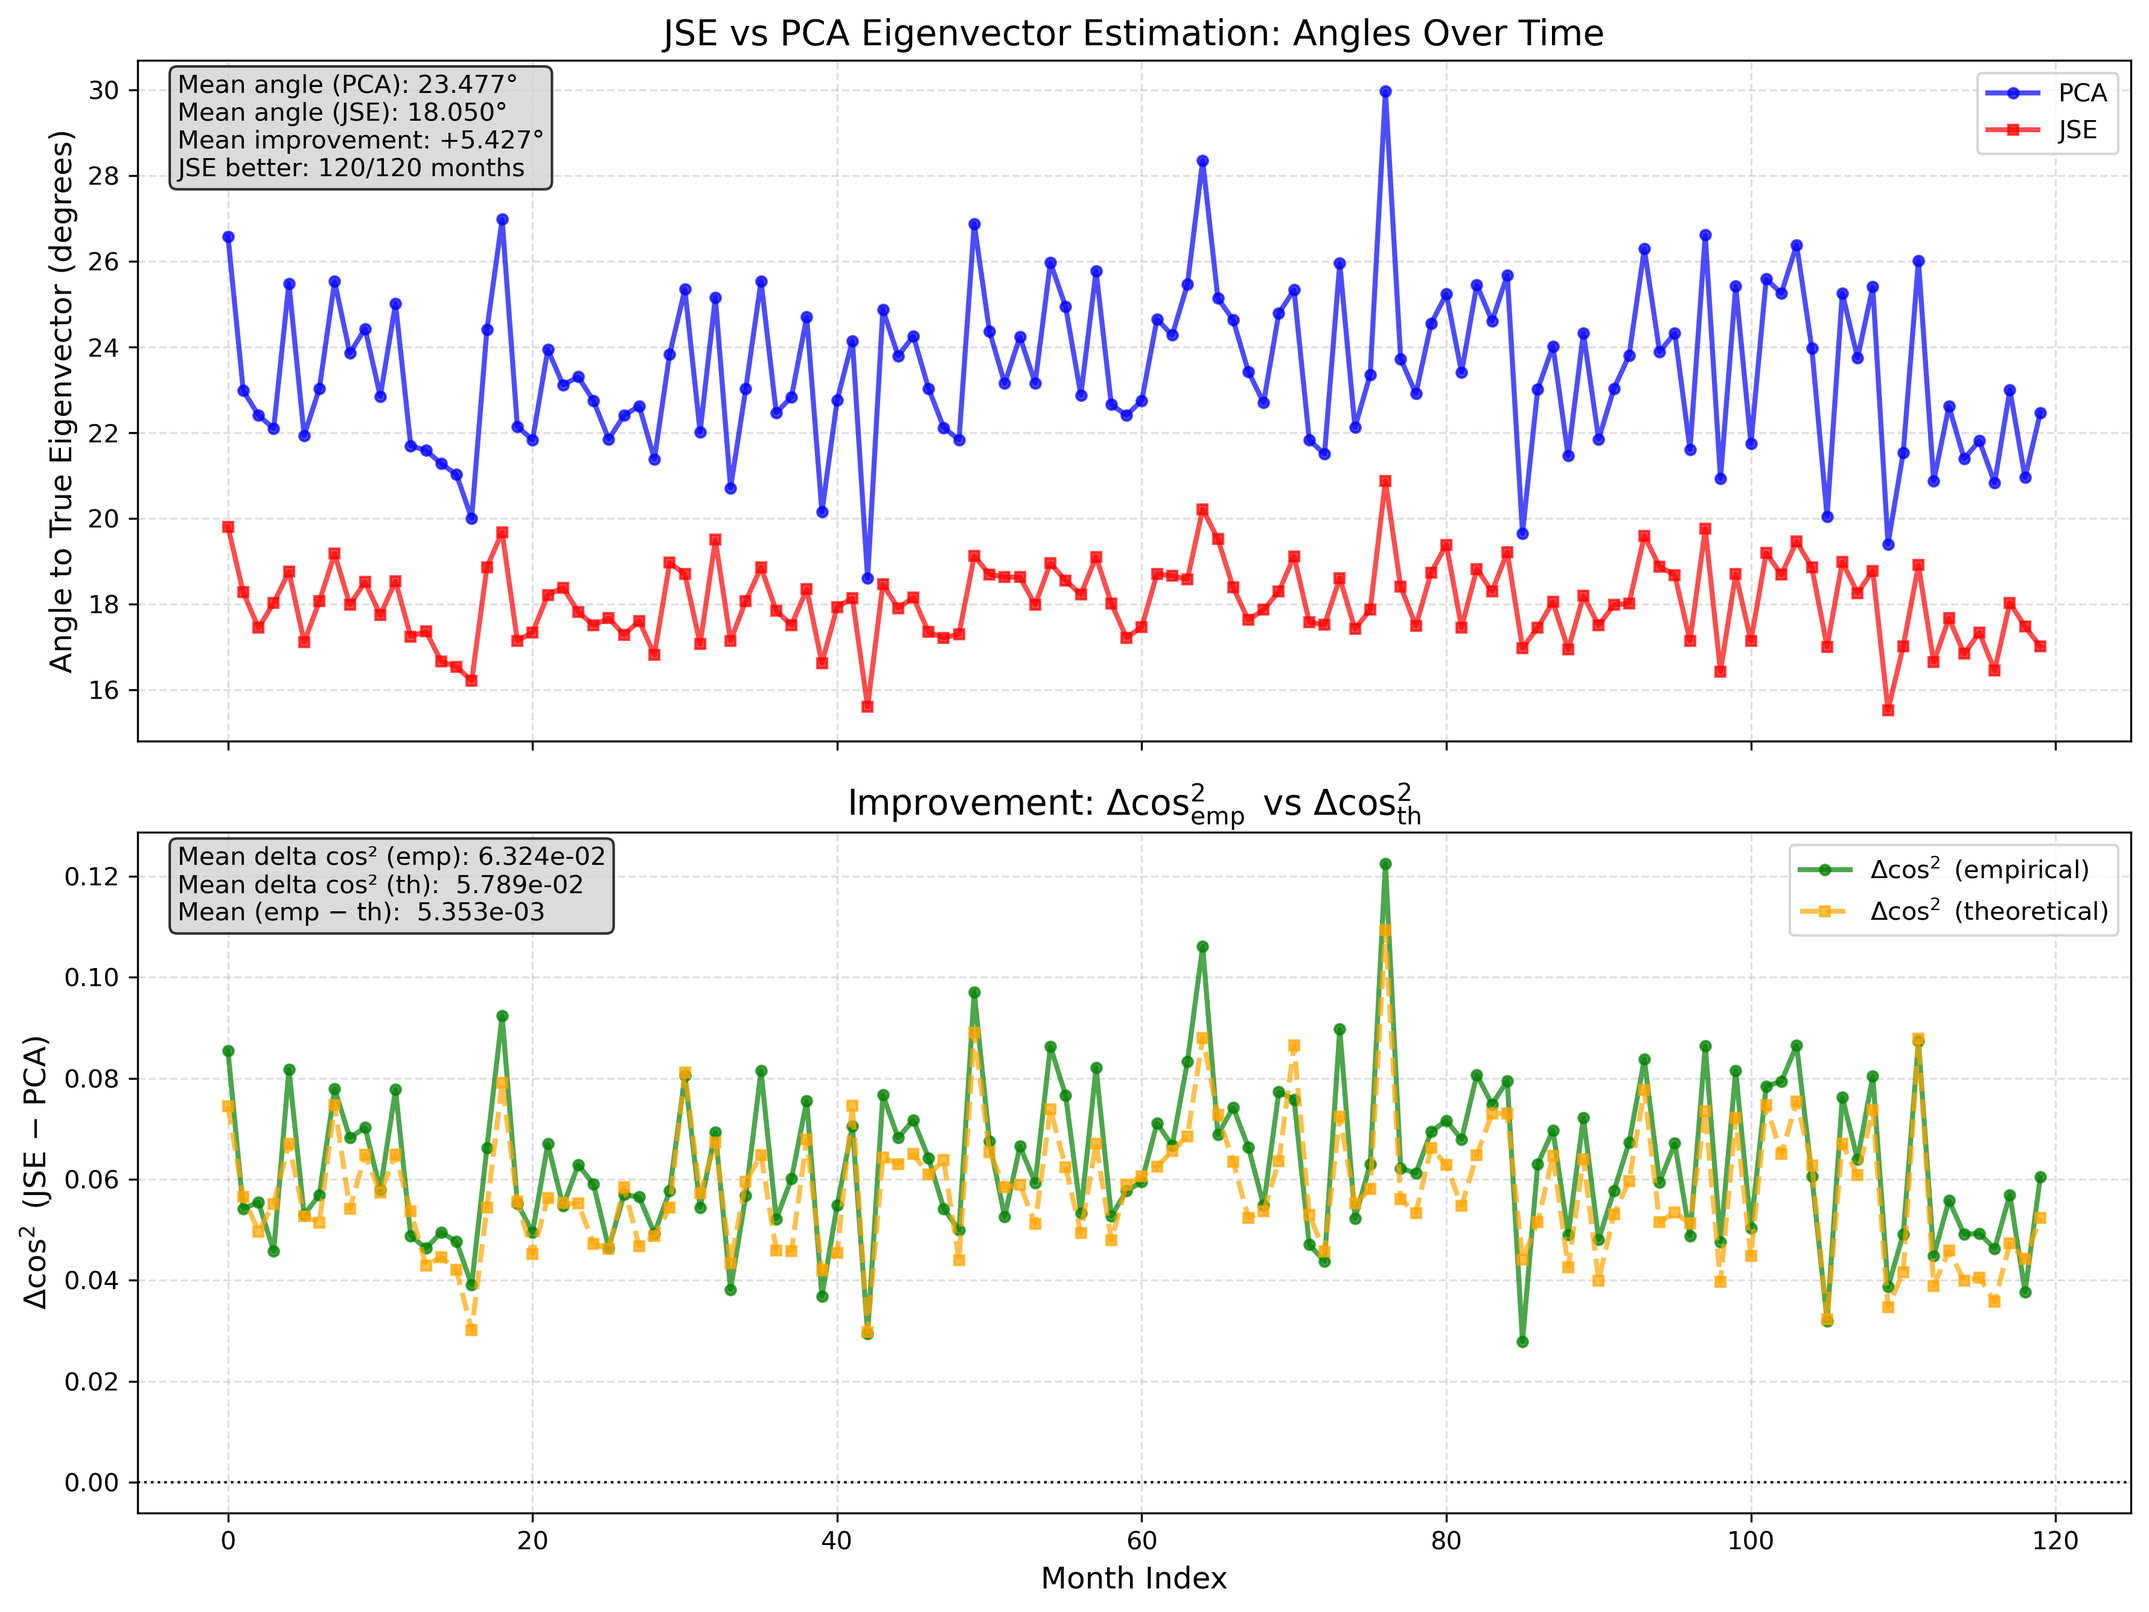
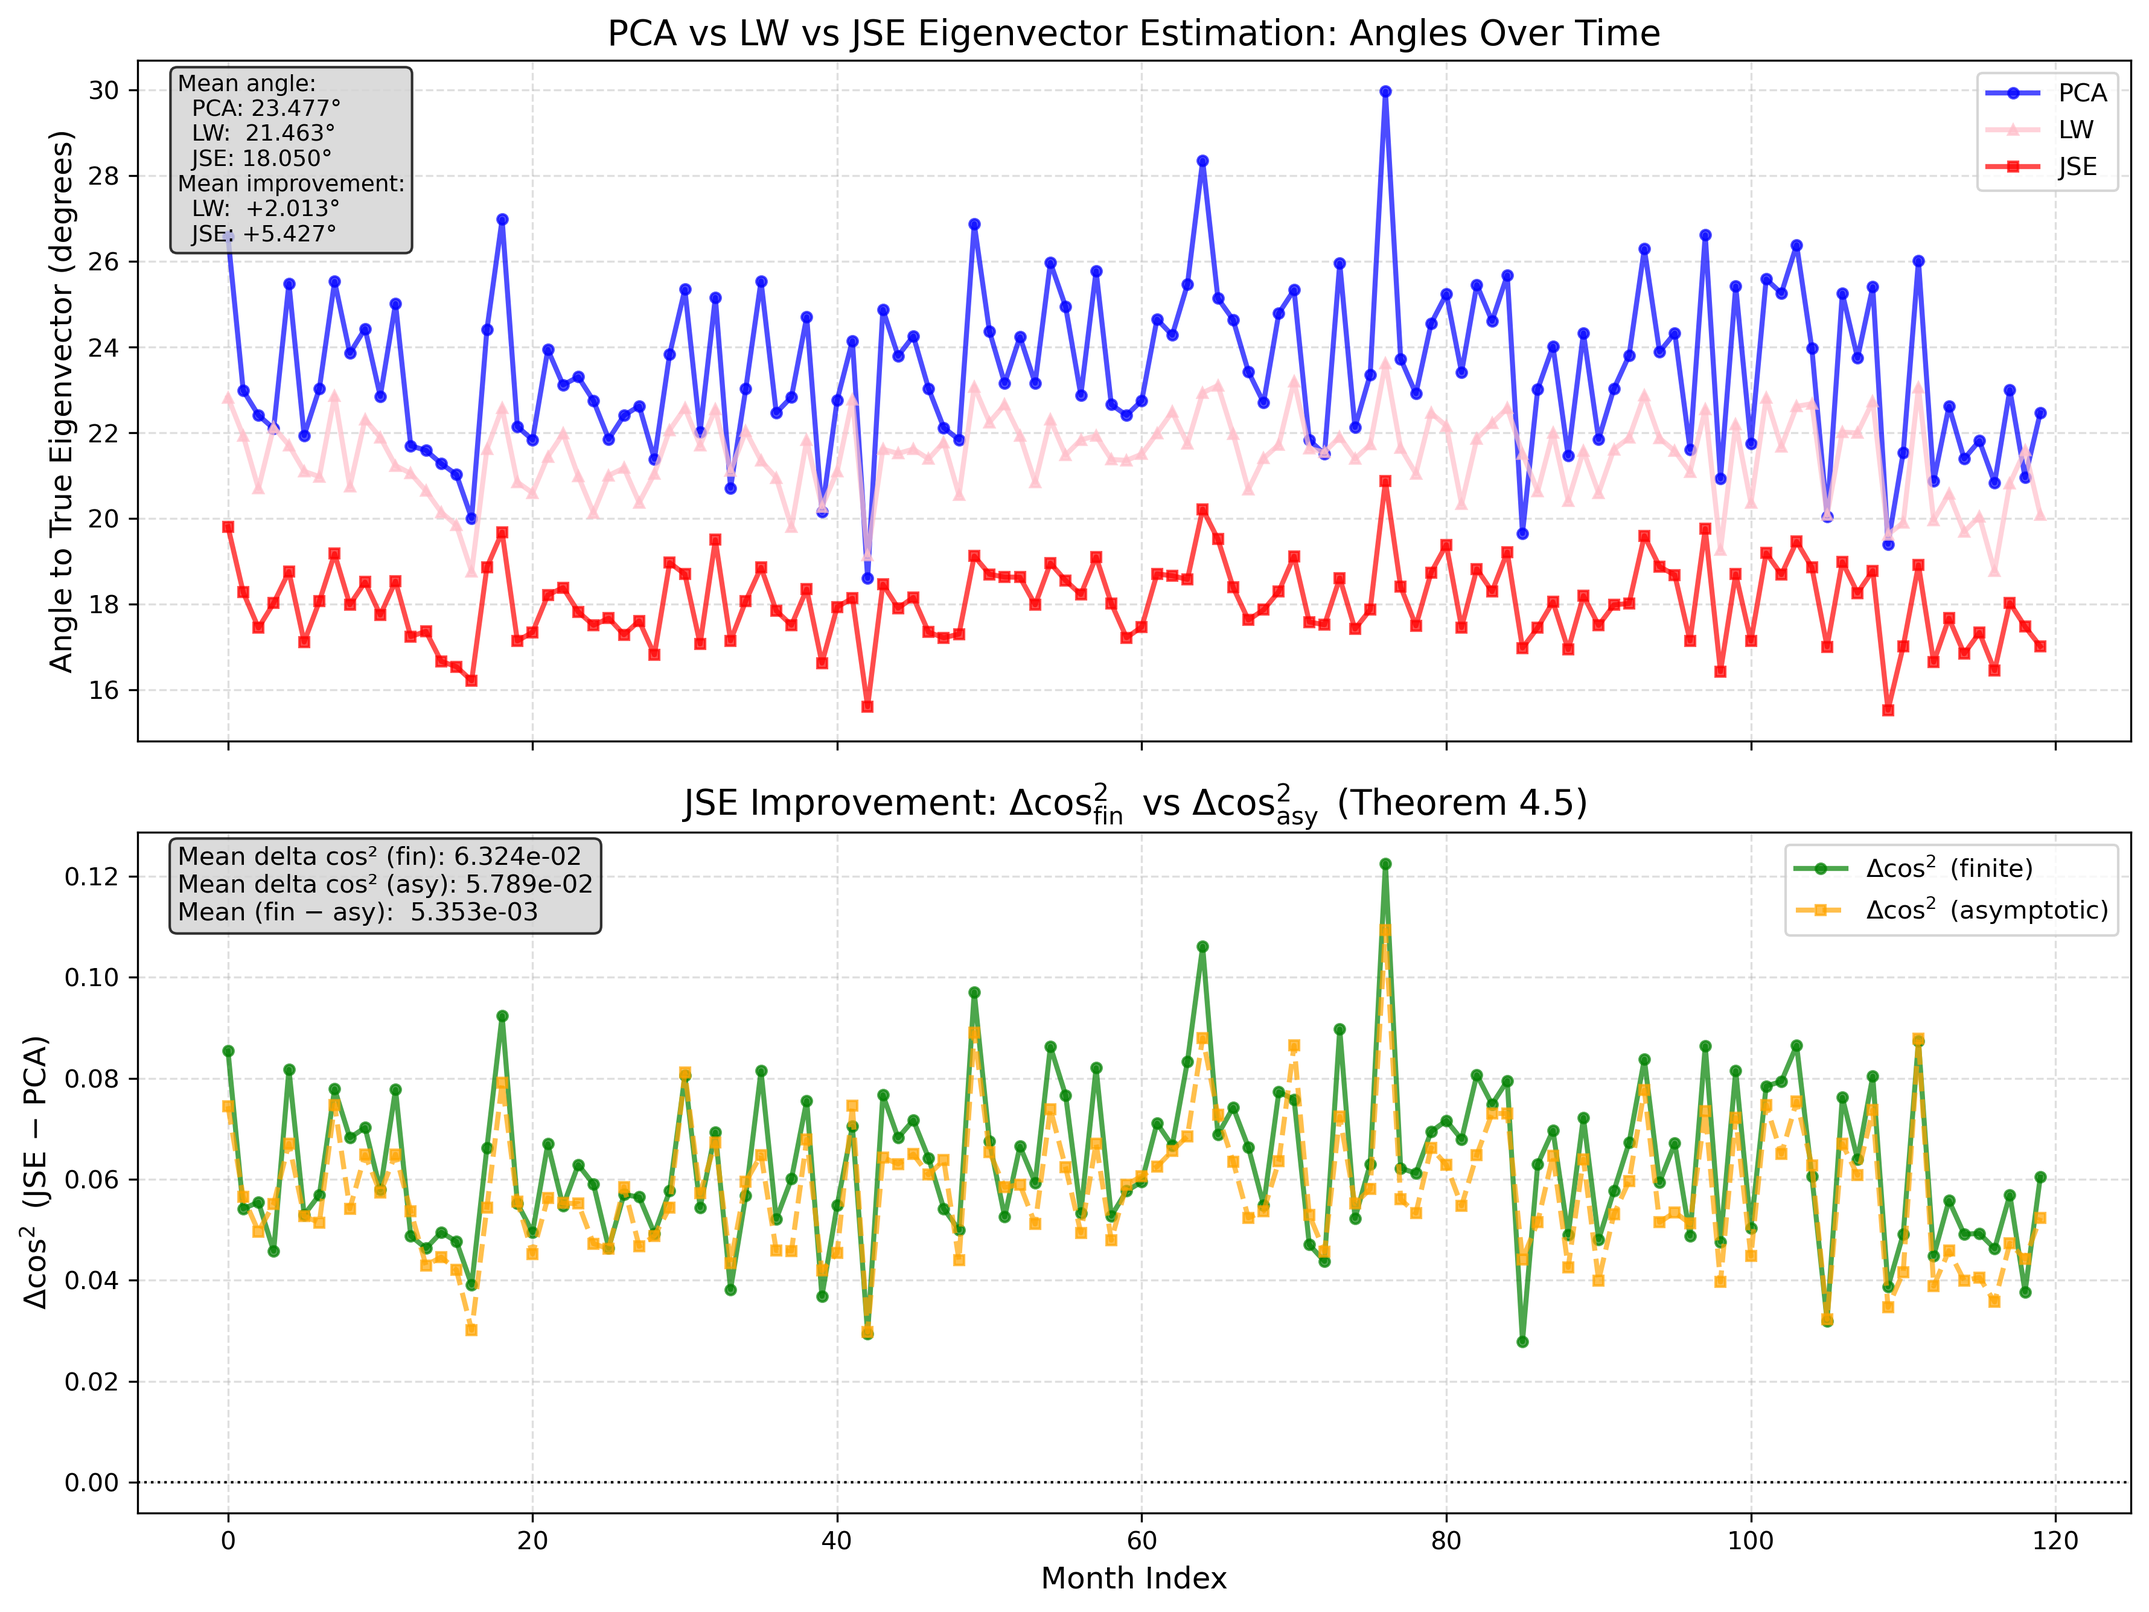
Update shrunk and true vector angle comparison

diff --git a/analyze_jse_improvement.py b/analyze_jse_improvement.py
@@ -3,10 +3,11 @@ The code is mostly based on paper "Portfolio optimisation via strategy-specific 
 Using formula 3.6/4.12 to test if JSE is moving eigenvector closer to the ground truth
 """
 
+from pathlib import Path
+
+import matplotlib.pyplot as plt
 import numpy as np
 import pandas as pd
-from pathlib import Path
-import matplotlib.pyplot as plt
 
 from construct_cov_sim import (
     demean_over_time,
@@ -14,6 +15,8 @@ from construct_cov_sim import (
     top_k_eigenpairs,
     js_eigvec_factor_cov
 )
+# Import LW shrinkage
+from honeyShrinkage import covCor
 
 
 def compute_angle_degrees(v1: np.ndarray, v2: np.ndarray) -> float:
@@ -34,7 +37,7 @@ def compute_angle_degrees(v1: np.ndarray, v2: np.ndarray) -> float:
 
 def compute_cos2(v1: np.ndarray, v2: np.ndarray) -> float:
     """
-    Compute cosine of two vectors, to compare with the theoretical delta later
+    Compute cosine of two vectors, to compare with the asymptotic delta later
     """
     v1_norm = v1 / (np.linalg.norm(v1) + 1e-18)
     v2_norm = v2 / (np.linalg.norm(v2) + 1e-18)
@@ -82,9 +85,9 @@ def compute_cos_sin_theta2(true_eigvec: np.ndarray,
     return cos2_theta, sin2_theta
 
 
-def theoretical_improvement(phi2: float,
-                             cos2_theta: float,
-                             sin2_theta: float) -> float:
+def asymptotic_improvement(phi2: float,
+                            cos2_theta: float,
+                            sin2_theta: float) -> float:
     """
     RHS of eq. (3.6) / (4.12):
 
@@ -158,6 +161,11 @@ def analyze_all_months(data_dir: Path):
         U_pca, lam_pca = top_k_eigenpairs(S, k)
         h_pca = U_pca[:, 0]
         
+        # LW: Leading eigenvector from LW-shrunk covariance
+        Sigma_lw, _ = covCor(X.T)  # covCor expects (n, p) format
+        U_lw, lam_lw = top_k_eigenpairs(Sigma_lw, k)
+        h_lw = U_lw[:, 0]
+        
         # JSE: Leading eigenvector from JSE-shrunk covariance
         Sigma_jse = js_eigvec_factor_cov(S, k, n)
         U_jse, lam_jse = top_k_eigenpairs(Sigma_jse, k)
@@ -169,17 +177,20 @@ def analyze_all_months(data_dir: Path):
         
         # Compute angles to truth
         angle_pca = compute_angle_degrees(h_pca, true_eigvec)
+        angle_lw = compute_angle_degrees(h_lw, true_eigvec)
         angle_jse = compute_angle_degrees(h_jse, true_eigvec)
         
-        # Improvement (negative means JSE is better - smaller angle)
-        improvement = angle_pca - angle_jse
-        pct_improvement = (improvement / angle_pca) * 100
+        # Improvements relative to PCA
+        improvement_jse = angle_pca - angle_jse
+        improvement_lw = angle_pca - angle_lw
+        pct_improvement_jse = (improvement_jse / angle_pca) * 100
+        pct_improvement_lw = (improvement_lw / angle_pca) * 100
 
-        # Squared cosines and theoretical improvement (eq. 4.12 / 3.6) ---
-        # Empirical cos^2 values
+        # Squared cosines and asymptotic improvement (eq. 4.12 / 3.6) ---
+        # Finite cos^2 values
         cos2_pca = compute_cos2(h_pca, true_eigvec)
         cos2_jse = compute_cos2(h_jse, true_eigvec)
-        diff_empirical = cos2_jse - cos2_pca
+        diff_finite = cos2_jse - cos2_pca
 
         # φ^2 from sample eigenvalues (uses n returned by sample_cov)
         phi2 = compute_phi2(S, n)
@@ -189,34 +200,38 @@ def analyze_all_months(data_dir: Path):
         constraint_vec = np.ones((p, 1))
         cos2_theta, sin2_theta = compute_cos_sin_theta2(true_eigvec, constraint_vec)
 
-        # Theoretical asymptotic difference from the paper
-        diff_theoretical = theoretical_improvement(phi2, cos2_theta, sin2_theta)
+        # Asymptotic difference from the paper
+        diff_asymptotic = asymptotic_improvement(phi2, cos2_theta, sin2_theta)
         
         # Store results
         results.append({
             'month': month,
             'angle_pca': angle_pca,
+            'angle_lw': angle_lw,
             'angle_jse': angle_jse,
-            'improvement_deg': improvement,
-            'improvement_pct': pct_improvement,
-            'jse_better': improvement > 0,
+            'improvement_jse_deg': improvement_jse,
+            'improvement_lw_deg': improvement_lw,
+            'improvement_jse_pct': pct_improvement_jse,
+            'improvement_lw_pct': pct_improvement_lw,
+            'jse_better': improvement_jse > 0,
+            'lw_better': improvement_lw > 0,
             'cos2_pca': cos2_pca,
             'cos2_jse': cos2_jse,
-            'diff_empirical': diff_empirical,
-            'diff_theoretical': diff_theoretical,
-            'diff_error': diff_empirical - diff_theoretical,
+            'diff_finite': diff_finite,
+            'diff_asymptotic': diff_asymptotic,
+            'diff_error': diff_finite - diff_asymptotic,
         })
         
         # Print result
-        status = "[+]" if improvement > 0 else "[-]"
+        status_jse = "[+]" if improvement_jse > 0 else "[-]"
+        status_lw = "[+]" if improvement_lw > 0 else "[-]"
         print(
-            f"{status} {month}: "
-            f"angle_PCA={angle_pca:6.3f}°, "
-            f"angle_JSE={angle_jse:6.3f}°, "
-            f"delta deg={improvement:6.3f}°, "
-            f"delta cos²_emp={diff_empirical:8.5f}, "
-            f"delta cos²_th={diff_theoretical:8.5f}, "
-            f"err={diff_empirical - diff_theoretical:+8.5f}"
+            f"{month}: "
+            f"PCA={angle_pca:6.3f}°, "
+            f"LW={angle_lw:6.3f}° {status_lw}, "
+            f"JSE={angle_jse:6.3f}° {status_jse}, "
+            f"delta_cos²_fin={diff_finite:8.5f}, "
+            f"delta_cos²_asy={diff_asymptotic:8.5f}"
         )
     
     # Convert to DataFrame
@@ -228,29 +243,49 @@ def analyze_all_months(data_dir: Path):
     print("="*80)
     
     mean_angle_pca = df_results['angle_pca'].mean()
+    mean_angle_lw = df_results['angle_lw'].mean()
     mean_angle_jse = df_results['angle_jse'].mean()
-    mean_improvement = df_results['improvement_deg'].mean()
-    median_improvement = df_results['improvement_deg'].median()
-    mean_diff_emp = df_results['diff_empirical'].mean()
-    mean_diff_th = df_results['diff_theoretical'].mean()
+    
+    mean_improvement_lw = df_results['improvement_lw_deg'].mean()
+    mean_improvement_jse = df_results['improvement_jse_deg'].mean()
+    median_improvement_lw = df_results['improvement_lw_deg'].median()
+    median_improvement_jse = df_results['improvement_jse_deg'].median()
+    
+    mean_diff_fin = df_results['diff_finite'].mean()
+    mean_diff_asy = df_results['diff_asymptotic'].mean()
     mean_diff_err = df_results['diff_error'].mean()
     std_diff_err = df_results['diff_error'].std()
     
-    num_improved = df_results['jse_better'].sum()
+    num_lw_improved = df_results['lw_better'].sum()
+    num_jse_improved = df_results['jse_better'].sum()
     num_total = len(df_results)
-    pct_improved = (num_improved / num_total) * 100
+    pct_lw_improved = (num_lw_improved / num_total) * 100
+    pct_jse_improved = (num_jse_improved / num_total) * 100
     
-    print(f"\nMean PCA angle:  {mean_angle_pca:.3f}°")
-    print(f"Mean JSE angle:  {mean_angle_jse:.3f}°")
-    print(f"Mean improvement: {mean_improvement:+.3f}° ({mean_improvement/mean_angle_pca*100:+.2f}%)")
-    print(f"Median improvement: {median_improvement:+.3f}°")
-    print(f"\nJSE better in: {num_improved}/{num_total} months ({pct_improved:.1f}%)")
-    print(f"\nMean delta cos² (empirical):   {mean_diff_emp:.6e}")
-    print(f"Mean delta cos² (theoretical): {mean_diff_th:.6e}")
-    print(f"Mean (emp - th) error:    {mean_diff_err:.6e}")
-    print(f"Std of error across months: {std_diff_err:.6e}")
+    print(f"\nMean angles:")
+    print(f"  PCA: {mean_angle_pca:.3f}°")
+    print(f"  LW:  {mean_angle_lw:.3f}°")
+    print(f"  JSE: {mean_angle_jse:.3f}°")
     
-    if mean_improvement > 0:
+    print(f"\nMean improvement over PCA:")
+    print(f"  LW:  {mean_improvement_lw:+.3f}° ({mean_improvement_lw/mean_angle_pca*100:+.2f}%)")
+    print(f"  JSE: {mean_improvement_jse:+.3f}° ({mean_improvement_jse/mean_angle_pca*100:+.2f}%)")
+    
+    print(f"\nMedian improvement over PCA:")
+    print(f"  LW:  {median_improvement_lw:+.3f}°")
+    print(f"  JSE: {median_improvement_jse:+.3f}°")
+    
+    print(f"\nSuccess rate (better than PCA):")
+    print(f"  LW:  {num_lw_improved}/{num_total} months ({pct_lw_improved:.1f}%)")
+    print(f"  JSE: {num_jse_improved}/{num_total} months ({pct_jse_improved:.1f}%)")
+    
+    print(f"\nJSE asymptotic validation:")
+    print(f"  Mean delta cos² (finite):      {mean_diff_fin:.6e}")
+    print(f"  Mean delta cos² (asymptotic):  {mean_diff_asy:.6e}")
+    print(f"  Mean (fin - asy) error:        {mean_diff_err:.6e}")
+    print(f"  Std of error across months:    {std_diff_err:.6e}")
+    
+    if mean_improvement_jse > 0:
         print("\nVALIDATION PASSED: JSE improves over PCA on average!")
     else:
         print("\nWARNING: JSE does not improve on average")
@@ -270,37 +305,43 @@ def plot_results(df_results: pd.DataFrame,
     # 1) Angles Over Time
     ax1.plot(months, df_results['angle_pca'], 'o-', label='PCA',
              color='blue', alpha=0.7, linewidth=2, markersize=4)
+    ax1.plot(months, df_results['angle_lw'], '^-', label='LW',
+             color='pink', alpha=0.7, linewidth=2, markersize=4)
     ax1.plot(months, df_results['angle_jse'], 's-', label='JSE',
              color='red', alpha=0.7, linewidth=2, markersize=4)
-
+    
     ax1.set_ylabel('Angle to True Eigenvector (degrees)', fontsize=12)
-    ax1.set_title('JSE vs PCA Eigenvector Estimation: Angles Over Time',
+    ax1.set_title('PCA vs LW vs JSE Eigenvector Estimation: Angles Over Time',
                   fontsize=14)
     ax1.grid(True, linestyle='--', alpha=0.4)
     ax1.legend()
-
+    
     # Add summary stats box for angles
-    improvements = df_results['improvement_deg']
     mean_angle_pca = df_results['angle_pca'].mean()
+    mean_angle_lw = df_results['angle_lw'].mean()
     mean_angle_jse = df_results['angle_jse'].mean()
-
+    improvement_lw = df_results['improvement_lw_deg'].mean()
+    improvement_jse = df_results['improvement_jse_deg'].mean()
+    
     stats_text = (
-        f"Mean angle (PCA): {mean_angle_pca:.3f}°\n"
-        f"Mean angle (JSE): {mean_angle_jse:.3f}°\n"
-        f"Mean improvement: {improvements.mean():+.3f}°\n"
-        f"JSE better: {df_results['jse_better'].sum()}"
-        f"/{len(df_results)} months"
+        f"Mean angle:\n"
+        f"  PCA: {mean_angle_pca:.3f}°\n"
+        f"  LW:  {mean_angle_lw:.3f}°\n"
+        f"  JSE: {mean_angle_jse:.3f}°\n"
+        f"Mean improvement:\n"
+        f"  LW:  {improvement_lw:+.3f}°\n"
+        f"  JSE: {improvement_jse:+.3f}°"
     )
     ax1.text(0.02, 0.98, stats_text, transform=ax1.transAxes,
-             fontsize=10, verticalalignment='top',
+             fontsize=9, verticalalignment='top',
              bbox=dict(boxstyle='round', facecolor='lightgray', alpha=0.8))
 
-    # 2) delta cos² (empirical vs theoretical)
-    ax2.plot(months, df_results['diff_empirical'], 'o-',
-             label=r'$\Delta \cos^2$ (empirical)',
+    # 2) delta cos² (finite vs asymptotic) - JSE only
+    ax2.plot(months, df_results['diff_finite'], 'o-',
+             label=r'$\Delta \cos^2$ (finite)',
              color='green', alpha=0.7, linewidth=2, markersize=4)
-    ax2.plot(months, df_results['diff_theoretical'], 's--',
-             label=r'$\Delta \cos^2$ (theoretical)',
+    ax2.plot(months, df_results['diff_asymptotic'], 's--',
+             label=r'$\Delta \cos^2$ (asymptotic)',
              color='orange', alpha=0.7, linewidth=2, markersize=4)
 
     # Zero line for visual reference
@@ -308,23 +349,23 @@ def plot_results(df_results: pd.DataFrame,
 
     ax2.set_xlabel('Month Index', fontsize=12)
     ax2.set_ylabel(r'$\Delta \cos^2$ (JSE − PCA)', fontsize=12)
-    ax2.set_title(r'Improvement: '
-                  r'$\Delta \cos^2_{\mathrm{emp}}$ vs '
-                  r'$\Delta \cos^2_{\mathrm{th}}$',
+    ax2.set_title(r'JSE Improvement: '
+                  r'$\Delta \cos^2_{\mathrm{fin}}$ vs '
+                  r'$\Delta \cos^2_{\mathrm{asy}}$ (Theorem 4.5)',
                   fontsize=14)
     ax2.grid(True, linestyle='--', alpha=0.4)
     ax2.legend()
 
     # Optional: summary box for delta cos²
-    mean_diff_emp = df_results['diff_empirical'].mean()
-    mean_diff_th = df_results['diff_theoretical'].mean()
-    mean_diff_err = (df_results['diff_empirical']
-                     - df_results['diff_theoretical']).mean()
+    mean_diff_fin = df_results['diff_finite'].mean()
+    mean_diff_asy = df_results['diff_asymptotic'].mean()
+    mean_diff_err = (df_results['diff_finite']
+                     - df_results['diff_asymptotic']).mean()
 
     stats_text2 = (
-        f"Mean delta cos² (emp): {mean_diff_emp:.3e}\n"
-        f"Mean delta cos² (th):  {mean_diff_th:.3e}\n"
-        f"Mean (emp − th):  {mean_diff_err:.3e}"
+        f"Mean delta cos² (fin): {mean_diff_fin:.3e}\n"
+        f"Mean delta cos² (asy): {mean_diff_asy:.3e}\n"
+        f"Mean (fin − asy):  {mean_diff_err:.3e}"
     )
     ax2.text(0.02, 0.98, stats_text2, transform=ax2.transAxes,
              fontsize=10, verticalalignment='top',
